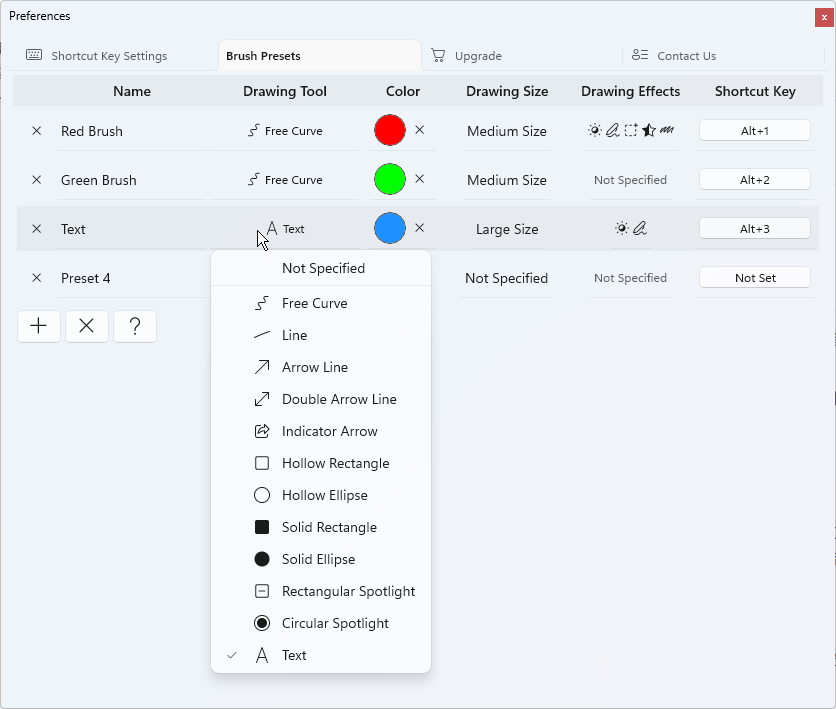
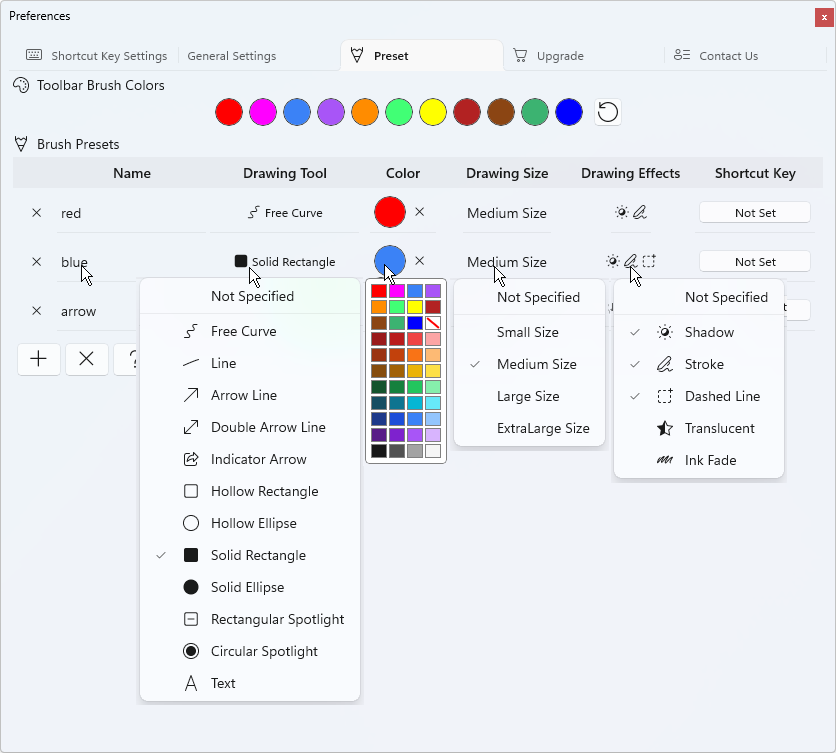
update

diff --git a/content/en/help/epointer-brush-presets.md b/content/en/help/epointer-brush-presets.md
@@ -1,16 +1,58 @@
 ---
 title: ePointer Brush Presets Help
 ---
-Brush presets allow you to combine your frequently used drawing tools, colors, sizes and effects. You can quickly switch between them via hotkeys, eliminating tedious manual configuration on the toolbar.
+We can reset the brush colors displayed on the toolbar and make brush presets in the software's preferences.
 
-When editing a preset, if you set any item (brush tool, color, size, effect) to `Not Specified`, the software will automatically adopt the corresponding live parameters currently set on the toolbar.
+Brush presets let you combine commonly used brush tools, colors, dimensions, and effects, and use shortcuts to quickly switch between them, eliminating the hassle of configuring them in the toolbar.
 
-![Brush Presets](assets/brush-presets.png)
+Click the gear button in the lower right corner of the toolbar to open the Preferences - Presets screen of the software, where you can define the brush color and preset brush on the toolbar.
 
-- Click the `+` button to add a new brush preset; click the `X` button to delete all presets in the list.
-- **Name cell:** Click the cell to rename the preset.
-- **Drawing Tool Cell:** Click the cell to change the drawing tool. If unspecified, the currently selected brush tool on the toolbar will be used.
-- **Color cell:** Click the cell to adjust the drawing color. Click the `X` icon next to the color to clear the color setting. If no color is specified, the active color on the toolbar applies.
-- **Drawing Size cell:** Click the cell to modify the drawing size. When unspecified, the current drawing size from the toolbar is retained.
-- **Drawing Effects cell:** Click the cell to configure one or multiple brush effects for the preset. If no effects are assigned, whatever effects are enabled on the toolbar will be used.
-- **Shortcut Key cell:** Click the cell to record a custom shortcut key for the preset. While in drawing mode, pressing this hotkey loads all saved configurations, activating the matched brush tool, size, color and effects instantly.
+## Toolbar color
+
+Toolbar colors are brush colors that appear directly in the toolbar color area, and we can reset these colors as needed in our preferences.
+
+there are some nuances in color definitions between macOS and Windows.
+
+### macOS version
+
+customize 24 toolbar colors for macOS. The toolbar displays 12 colors (first page) by default, and the other 12 colors (second page) are displayed after holding down the option key. You can redefine these 24 colors in the preset interface.
+
+![macos-toolbar-colors](assets/macos-toolbar-colors.png)
+
+After clicking on the color block, a color selection dialog box will pop up, and you can set the color by clicking or entering a color value (such as RGB, Hex, etc.).
+
+![epointer-macos-morecolor-colorpicker](assets/macos-morecolor-colorpicker.png)
+
+### Windows version
+
+You can customize 11 toolbar colors for Windows. The Windows version simplifies the toolbar colors, 11 colors are provided by default, but 32 additional gradient colors are provided through the pop-up panel, and almost all colors can be used through the color selection panel using the More Colors button, but only 11 colors displayed directly on the toolbar are allowed to be customized.
+
+![epointer-windows-toolbar-colors](assets/windows-toolbar-colors.png)
+
+Clicking the color will pop up the color panel, clicking `More` button will pop up the color selection dialog box, you can set the color by clicking or entering color values (such as RGB, Hex, etc.); click the `+` button at the bottom to record the current color into the historical color.
+
+![epointer-windows-morecolor-colorpicker](assets/windows-morecolor-colorpicker.png)
+
+## Brush Presets
+
+When editing presets, including brush tools, colors, dimensions, effects, if set to `Not Specified` or `None`, the corresponding parameters set in real time on the toolbar are automatically applied.
+
+![epointer-preset-windows-version](assets/brush-presets.png)
+
+![epointer-preset-macos-version](assets/macos-brush-presets.png)
+
++ Click the `+` button to add a preset brush; Click the 'X' button to delete all presets in the table.
++ **`Name` Cell: ** Click on a cell to modify the preset name.
++ **`Drawing Tool` Cell: ** Click on a cell to modify the brush tool used in the preset; If no brush tool is specified, use the selected brush tool on the toolbar.
++ **`Color` Cell: ** Click on a cell to modify the brush color used in the preset settings; Click the `X` button after the color to clear the color; If no color is specified, use the selected color on the toolbar.
++ **`Drawing Size` Cell: ** Click on the cell to modify the brush size used in the preset; If the brush size is not specified, use the selected brush size on the toolbar.
++ **`Drawing Effects` Cell: ** Click on a cell to modify the effect used in the preset, the effect can be set to one or more; if no brush effect is specified, the effect selected on the toolbar is used.
++ **`Shortcut Key` Cell: ** Click a cell to record a preset shortcut; in Draw mode, you can use the shortcut to apply the preset configuration to the toolbar, activating the corresponding brush tools, dimensions, colors, and effects.
+
+## Correlation of Colors and Toolbar Colors in Brush Presets
+
+Note that the color in the brush preset is not independent, it is associated with your custom toolbar color, and when the toolbar color changes the color value, the brush color in the brush preset associated with that color will also automatically change.
+
+However, there are exceptions for the Windows version. Because the Windows version provides not only 11 customizable toolbar colors when picking colors for the brush preset, but also an additional 32 gradient colors, which are fixed and unchangeable. When you select a color that is one of the 32 fixed colors, changing the color values of the 11 toolbar colors affects the colors in the brush preset.
+
+![epointer-windows-toolbar-colors](assets/epointer-windows-toolbar-colors.png)

diff --git a/content/zh-hant/help/epointer-brush-presets.md b/content/zh-hant/help/epointer-brush-presets.md
@@ -1,16 +1,58 @@
 ---
-title: 荧幕電子教鞭 ePointer 畫筆預設幫助
+title: 屏幕电子教鞭 ePointer 颜色和画笔预设帮助
 ---
-筆刷預設可將常用的筆刷工具、顏色、大小、效果整合儲存，透過快速鍵一鍵切換，省去每次在工具列繁瑣調整參數的步驟。
+我們可以在軟體的偏好設定中重新設定工具列上顯示的畫筆顏色，以及進行畫筆預設。
 
-編輯預設項目時，若筆刷工具、顏色、尺寸、效果任一選項設定為「不指定」，系統將自動沿用工具列當下正在使用的對應參數。
+畫筆預設可以將常用的畫筆工具、顏色、尺寸、效果組合，使用快捷鍵快速切換，從而省去在工具列中繁瑣的配置。
 
-![筆刷預設](assets/brush-presets.png)
+點選工具列右下角的齒輪按鈕，開啟軟體的【偏好設定- 預設】介面，這裡就可以定義工具列上的畫筆顏色和預設畫筆。
 
-- 點擊「+」按鈕新增一組筆刷預設；點擊「X」按鈕刪除清單內所有預設內容。
-- **「名稱」儲存格：** 點擊儲存格可編輯此預設的名稱。
-- **「筆刷工具」儲存格：** 點擊儲存格可變更預設綁定的筆刷工具；若設定為不指定，則沿用工具列目前選取的筆刷工具。
-- **「顏色」儲存格：** 點擊儲存格可調整預設套用的筆刷顏色；點擊顏色後方的「X」按鈕可清空顏色設定；未指定顏色時，會使用工具列當前選定顏色。
-- **「筆刷尺寸」儲存格：** 點擊儲存格可修改預設內的筆刷粗細；未指定尺寸時，沿用工具列正在使用的筆刷大小。
-- **「筆刷效果」儲存格：** 點擊儲存格可增減套用效果，可單一或多種效果同時設定；未指定效果時，沿用工具列開啟的筆刷效果。
-- **「快速鍵」儲存格：** 點擊儲存格可錄製專屬快捷按鍵；繪圖模式下按下該快捷鍵，便會載入此預設所有設定，同步切換筆刷工具、尺寸、顏色與各項效果。
+## 工具列顏色
+
+工具列顏色指的是直接顯示在工具列顏色區的畫筆顏色，我們可以在偏好設定中根據自己需求重新設定這些顏色。
+
+macOS版和Windows版在顏色定義上有一些細微差別。
+
+### macOS版
+
+macOS版的工具列顏色可自訂24個。工具列預設顯示12個顏色（第一頁），按住option鍵後會顯示另外12個顏色（第二頁），您可以在預設介面重新定義這24個顏色。
+
+![macos-toolbar-colors](assets/macos-toolbar-colors.png)
+
+點擊色塊後會跳出顏色選擇對話框，可以透過點選或輸入色值（如RGB、Hex等）來設定顏色。
+
+![epointer-macos-morecolor-colorpicker](assets/macos-morecolor-colorpicker.png)
+
+### Windows版
+
+Windows版的工具列顏色可自訂11個。 Windows版簡化了工具列顏色，預設提供了11個顏色，但透過彈出面板額外提供了32個漸層顏色，使用【更多顏色】按鈕還可以透過顏色選擇面板使用幾乎所有顏色，但只有直接顯示在工具列上的11個顏色允許自訂。
+
+![epointer-windows-toolbar-colors](assets/windows-toolbar-colors.png)
+
+點擊顏色會彈出顏色面板，點擊【更多顏色】會彈出顏色選擇對話框，可以透過點選或輸入色值（如RGB、Hex等）來設定顏色；點擊底部的`+`號按鈕可以將當前顏色記錄到歷史顏色中。
+
+![epointer-windows-morecolor-colorpicker](assets/windows-morecolor-colorpicker.png)
+
+## 畫筆預設
+
+編輯預設時，包含畫筆工具、顏色、尺寸、效果，如果設定成`不指定` ，則會自動套用工具列上即時設定的對應參數。
+
+![epointer-preset-windows-version](assets/brush-presets.png)
+
+![epointer-preset-macos-version](assets/macos-brush-presets.png)
+
++ 点击`+`号按钮新增一个预设画笔 ；点击`X`按钮删除表格中的所有预设。
++ **`名称`单元格 ： ** 点击单元格可以修改预设的名称。
++ **`画笔工具`儲存格：** 點擊儲存格可以修改預設中使用的畫筆工具；如果不指定畫筆工具，則使用工具列上選取的畫筆工具。
++ **`颜色`儲存格：** 點擊儲存格可以修改預設中使用的畫筆顏色；點擊顏色後面的`X`按鈕清除顏色；如果不指定顏色，則使用工具列上選取的顏色。
++ **`画笔尺寸`儲存格：** 點擊儲存格可以修改預設中使用的畫筆尺寸；如果不指定畫筆尺寸，則使用工具列上選取的畫筆尺寸。
++ **`画笔效果`儲存格：** 點擊儲存格可以修改預設中使用的效果，效果可以設定一個或多個；如果不指定畫筆效果，則使用工具列上選取的效果。
++ **`快捷键`儲存格：** 點擊儲存格可以錄製預設的快速鍵；在畫圖模式下，使用此快捷鍵可以將預設中的配置套用到工具欄，從而啟動對應的畫筆工具、尺寸、色彩和效果。
+
+## 畫筆預設中的顏色和工具列顏色的關聯性
+
+需要注意的是，畫筆預設中的顏色它不是獨立的，它是與您自訂的工具列顏色關聯的，當工具列顏色修改了色值，那與該顏色關聯的畫筆預設中的畫筆顏色也會自動改變。
+
+不過，對於Windows版有例外的情況。因為Windows版在供畫筆預設挑選顏色時，不僅提供了11個可自訂的工具列顏色，還額外提供了32個漸變色，這32個顏色是固定的，不可改變。當您選擇的顏色是32個固定色中的一個時，那麼修改11個工具列顏色的色值不變會對畫筆預設中的顏色造成影響。
+
+![epointer-windows-toolbar-colors](assets/epointer-windows-toolbar-colors.png)
